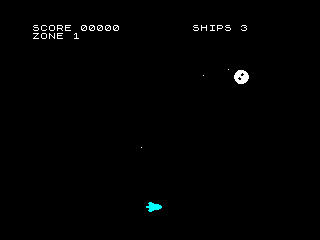
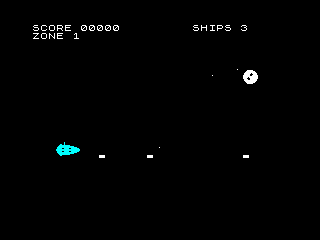
STELLAR DRIFT: bigger, detailed 24x16 player ship
The ship was a small near-solid block. Make it a proper spacecraft:

- Widen the player ship to 24x16 with a dedicated wide masked blitter
  (draw_ship / erase_ship); all other sprites stay on the 16x16 path.
- Redraw it as a detailed side-on rocket: top antenna, cockpit/panel-line
  windows (transparent gaps that show the paper colour), pointed nose,
  swept rear fins and a tail exhaust.
- Generalise the attribute-colour block to a variable width so the ship
  gets a 4-cell-wide cyan tint (color_ship / uncolor_ship).
- Make the sprite generator width-aware (16- or 24-wide art).
- Spawn shots from the rocket's nose.

Claude-Session: https://claude.ai/code/session_01YcS6gX2PfXm6YxFWXegWTC

diff --git a/game/tools/mksprites.py b/game/tools/mksprites.py
@@ -12,25 +12,26 @@ so the masked blitter can do:  screen = (screen AND mask) OR data
 """
 
 SPRITES = {
-# Player ship: a side-on rocket, nose to the right, swept rear fins and
-# exhaust at the tail (Chronos-inspired). Travel is left-to-right.
+# Player ship: a 24-wide side-on rocket, nose to the right, with an
+# antenna, cockpit/panel-line windows, swept rear fins and a tail
+# exhaust (Chronos-inspired). Travel is left-to-right.
 "spr_ship": [
-    "................",
-    "................",
-    "...XXX..........",
-    "..XXXXXX........",
-    "...XXXXXXXXXX...",
-    "...XXXXXXXXXXXX.",
-    "XXXXXXXXXXXXXXXX",
-    "XXXXXXXXXXXXXXXX",
-    "...XXXXXXXXXXXX.",
-    "...XXXXXXXXXX...",
-    "..XXXXXX........",
-    "...XXX..........",
-    "................",
-    "................",
-    "................",
-    "................",
+    "........X...............",
+    "........X...............",
+    "....XX..X...............",
+    "...XXXXXXXXXXX..........",
+    "..XXXXXXXXXXXXXXXX......",
+    ".XXXXXXXXXXXXXXXXXXXX...",
+    ".XXXXX..XXXXX..XXXXXXXX.",
+    "XXXXXXXXXXXXXXXXXXXXXXXX",
+    "XXXXXXXXXXXXXXXXXXXXXXXX",
+    ".XXXXX..XXXXX..XXXXXXXX.",
+    ".XXXXXXXXXXXXXXXXXXXX...",
+    "..XXXXXXXXXXXXXXXX......",
+    "...XXXXXXXXXXX..........",
+    "....XX..................",
+    "........................",
+    "........................",
 ],
 # Asteroid / rock hazard
 "spr_rock": [
@@ -111,24 +112,29 @@ SPRITES = {
 }
 
 
-def row_bytes(line):
-    line = (line + "................")[:16]
-    data = 0
-    for i, c in enumerate(line):
-        if c in "X#":
-            data |= 1 << (15 - i)
-    mask = (~data) & 0xFFFF
-    return (data >> 8) & 0xFF, data & 0xFF, (mask >> 8) & 0xFF, mask & 0xFF
+def row_bytes(line, w):
+    line = (line + "." * w)[:w]
+    nb = w // 8
+    data, mask = [], []
+    for b in range(nb):
+        d = 0
+        for bit in range(8):
+            if line[b * 8 + bit] in "X#":
+                d |= 1 << (7 - bit)
+        data.append(d)
+        mask.append((~d) & 0xFF)
+    return data + mask          # all data bytes, then all mask bytes
 
 
 def main():
     out = ["; Generated by tools/mksprites.py - do not edit by hand.",
-           "; Layout per row: data_hi, data_lo, mask_hi, mask_lo", ""]
+           "; Per row: width/8 data bytes, then width/8 mask bytes.", ""]
     for name, art in SPRITES.items():
-        out.append(name + ":")
+        w = max(16, ((max(len(r) for r in art) + 7) // 8) * 8)
+        out.append("%s:  ; %d wide" % (name, w))
         for line in art:
-            dh, dl, mh, ml = row_bytes(line)
-            out.append("        db  %3d,%3d,%3d,%3d" % (dh, dl, mh, ml))
+            vals = row_bytes(line, w)
+            out.append("        db  " + ",".join("%3d" % v for v in vals))
         out.append("")
     import os
     dest = os.path.join(os.path.dirname(__file__), "..", "src", "sprites.inc")

diff --git a/game/README.md b/game/README.md
@@ -80,7 +80,9 @@ The whole game is one Z80 source file, `src/game.asm`:
 - **`draw_sprite` / `erase_sprite`** are a masked 16×16 blitter. Each sprite
   row is `(data, mask)`; the routine shifts both right by `x & 7` across three
   bytes and writes `screen = (screen AND mask) OR data`, so sprites move with
-  single-pixel precision and let the background show through.
+  single-pixel precision and let the background show through. The player ship
+  uses a wider **24×16** variant (`draw_ship`) so it can carry detail —
+  antenna, cockpit/panel windows and fins.
 - Everything moving is an entry in a small fixed array (`objs`, `bullets`,
   `stars`); each frame it is erased at its old position, updated, collided, and
   redrawn — the classic flicker-light Spectrum approach.
